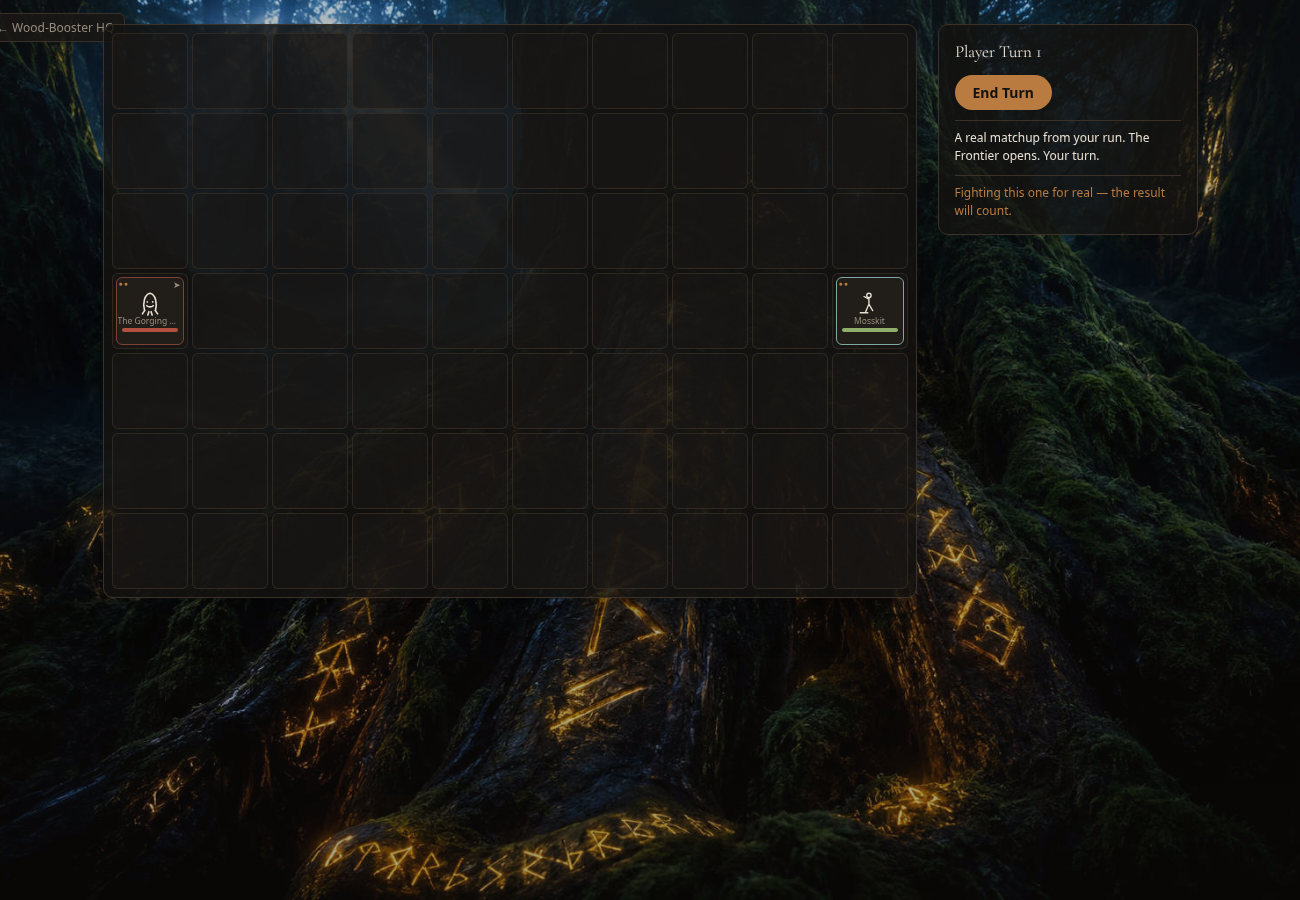
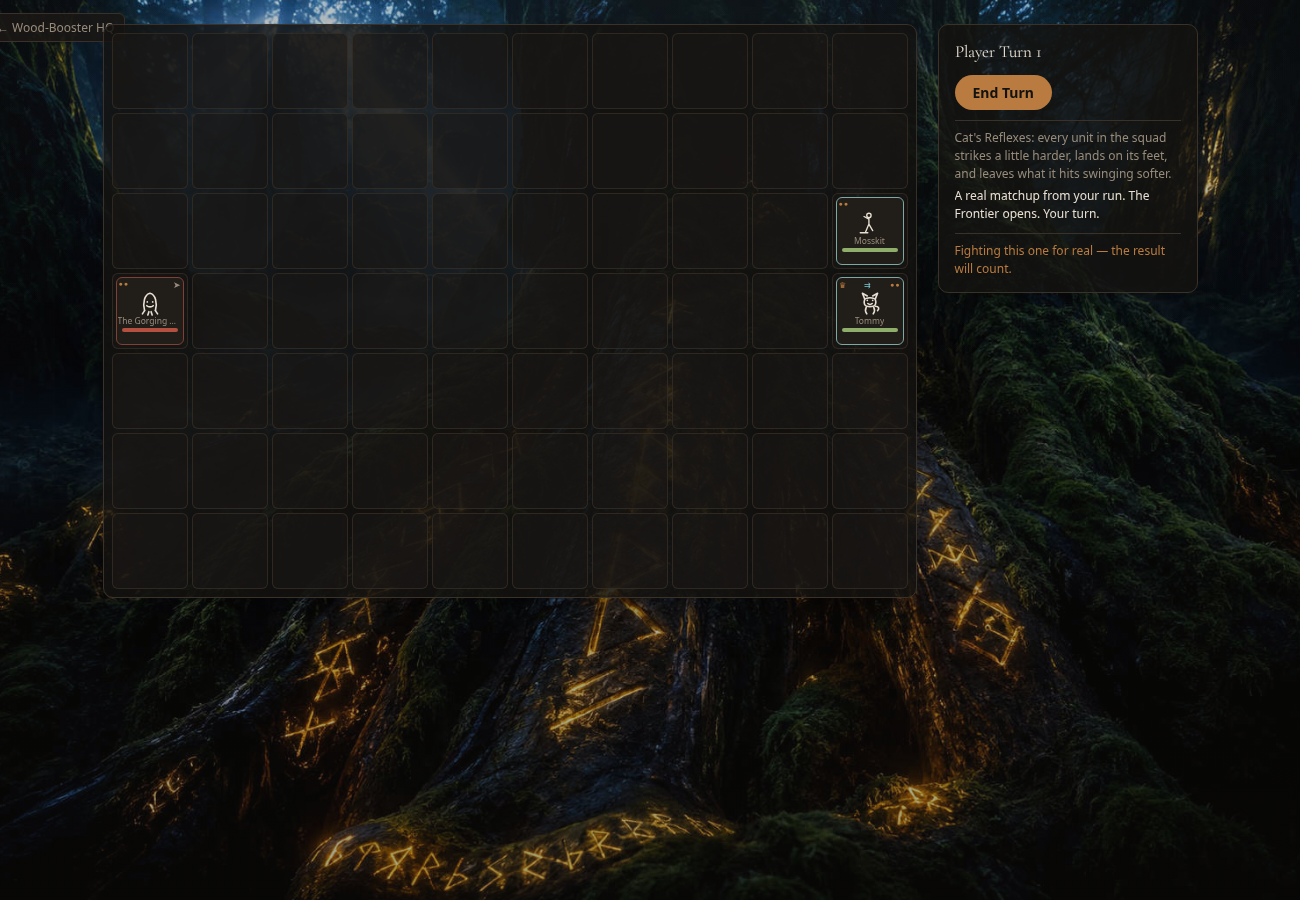
Hearthwood Frontier: the Commander joins a real fight (wiring PR #482-484 into the run)
Marc: "jatketaan" after PR #484 (Squad Passive - the Commander's basic
kit is fully complete); picked "Wire it into a real fight" over Facing
or Zone of Control - 3 rounds of real Commander work has never once
been reachable from an actual run.

createRealMatchupBattle - the real bridge used by both the standalone
/heartwood-tactics preview and the real "Fight this as Tactics" button
- has never included a Commander at all (its own stale comment: "not
modeled here at all", written before the Commander existed in this
engine). Every piece needed already existed, proven correct by 124
passing checks in the isolated prototype: deriveCommanderUnit,
applySquadPassiveToUnits, spreadRows. This round is wiring, not new
building.

- createRealMatchupBattle gains 2 optional params (characterId,
  commanderRank), defaulting to "no Commander" for byte-identical old
  behavior on any caller that omits them. When known: appends a real
  Commander unit, applies its real Squad Passive scaled by
  commanderPassiveWithRank(character, commanderRank) - the run's own
  REAL Rank-Up level, unlike the isolated prototype's own always-rank-0
  default (no shop phase there to have earned one from) - and prepends
  the Commander's own real description as the opening log line, same
  as createTacticsBattle.
- resolveRealMatchup now also returns the run's own real characterId/
  commanderRank (runState already carries both, set at startRun and
  updated by Rank-Up) - the entire missing piece.
[…]

Changed region(s): [[0.7385, 0.1244, 0.8923, 0.3111], [0.6462, 0.2178, 0.7077, 0.28], [0.6462, 0.3111, 0.6769, 0.3733]]

diff --git a/src/services/heartwood/tacticsEngine.js b/src/services/heartwood/tacticsEngine.js
@@ -26,7 +26,7 @@
 
 import { UNITS } from "../../data/heartwood/units"
 import { ENEMIES } from "../../data/heartwood/enemies"
-import { CHARACTERS } from "../../data/heartwood/characters"
+import { CHARACTERS, commanderPassiveWithRank } from "../../data/heartwood/characters"
 import { isOnBoard, samePos, kingAdjacent, reachableTiles as reachableTilesRaw } from "./targeting"
 
 // Marc: "taistelukenttä saa olla isompi" - the battlefield can be bigger.
@@ -763,25 +763,43 @@ function spreadRows(count, gridRows) {
 // enemy's own archetype mechanic (covenAura/cultRitual/charge/broodSplit/
 // leech/poison - all read straight off that unit's own real ENEMIES def)
 // resolve normally. Deliberately does NOT carry over the live game's
-// difficulty scaling, relics, items, or the Commander (no UNITS entry,
-// not modeled here at all), and formationId is null so a curated
-// formation's PACK-LEVEL synergy bonus (Swarm/Hunters' flat Strength,
-// Fortress's per-round Block, Rot's self-mend) never applies to an
-// arbitrary real matchup - the same "reuse real data, not the live
-// scaling" discipline every archetype round's curated formations already
-// follow, just without a formation-level bonus to translate.
-export function createRealMatchupBattle(squadDefIds, enemyDefIds) {
-  const playerRows = spreadRows(squadDefIds.length, GRID.rows)
+// difficulty scaling, relics, or items, and formationId is null so a
+// curated formation's PACK-LEVEL synergy bonus (Swarm/Hunters' flat
+// Strength, Fortress's per-round Block, Rot's self-mend) never applies
+// to an arbitrary real matchup - the same "reuse real data, not the
+// live scaling" discipline every archetype round's curated formations
+// already follow, just without a formation-level bonus to translate.
+//
+// Real-fight wiring round: the Commander DOES now carry over, via 2
+// new optional params (characterId/commanderRank) defaulting to "no
+// Commander" for byte-identical old behavior on any caller that omits
+// them - the exact real values (runState.characterId/commanderRank)
+// tacticsRealMatchup.js's own resolveRealMatchup now threads through
+// from the actual run, not a hardcoded default the way the isolated
+// prototype's own createTacticsBattle has to (no shop phase there to
+// have earned a real Rank-Up from).
+export function createRealMatchupBattle(squadDefIds, enemyDefIds, characterId = null, commanderRank = 0) {
+  const character = characterId ? CHARACTERS[characterId] : null
+  const playerRows = spreadRows(squadDefIds.length + (character ? 1 : 0), GRID.rows)
   const enemyRows = spreadRows(enemyDefIds.length, GRID.rows)
   const units = [
     ...squadDefIds.map((defId, i) =>
       deriveTacticsUnit(defId, "player", { row: playerRows[i], col: GRID.cols - 1 }, `player-${defId}-${i}`),
     ),
+    ...(character
+      ? [deriveCommanderUnit(characterId, { row: playerRows[squadDefIds.length], col: GRID.cols - 1 }, "player-commander")]
+      : []),
     ...enemyDefIds.map((defId, i) =>
       deriveTacticsUnit(defId, "enemy", { row: enemyRows[i], col: 0 }, `enemy-${defId}-${i}`),
     ),
   ]
-  const withBaseline = units.map((u) => ({ ...u, baseAttack: u.attack }))
+  // The real Commander's real Squad Passive, rank-scaled by the run's
+  // OWN real commanderRank (unlike createTacticsBattle's own always-
+  // rank-0 default) - applied before the baseAttack snapshot, same
+  // ordering as createTacticsBattle so the Strength grant folds into
+  // baseline rather than showing a misleading growth badge.
+  const withSquadPassive = character ? applySquadPassiveToUnits(units, commanderPassiveWithRank(character, commanderRank)) : units
+  const withBaseline = withSquadPassive.map((u) => ({ ...u, baseAttack: u.attack }))
   return {
     grid: GRID,
     // No terrain in a real matchup this round - terrain stays isolated-
@@ -790,7 +808,12 @@ export function createRealMatchupBattle(squadDefIds, enemyDefIds) {
     units: withBaseline,
     phase: "player",
     turn: 1,
-    log: ["A real matchup from your run. The Frontier opens. Your turn."],
+    // The Commander's own real, hand-authored description reused
+    // verbatim as the opening line, same as createTacticsBattle - only
+    // when a real Commander is actually present.
+    log: character
+      ? [character.description, "A real matchup from your run. The Frontier opens. Your turn."]
+      : ["A real matchup from your run. The Frontier opens. Your turn."],
     formationId: null,
   }
 }

diff --git a/src/services/heartwood/tacticsRealMatchup.js b/src/services/heartwood/tacticsRealMatchup.js
@@ -28,7 +28,7 @@ import { UNITS } from "../../data/heartwood/units"
 const PREVIEWABLE_PHASES = new Set(["formation", "battle"])
 
 // Resolves an already-in-memory runState + node into { label, squadDefIds,
-// enemyDefIds } for the tactics engine's createRealMatchupBattle/
+// enemyDefIds, characterId, commanderRank } for the tactics engine's
 // createRealMatchupBattle, or null when there's nothing resolvable (no
 // encounter id, or an empty squad/enemy side). Pure - no localStorage
 // touch at all, so HeartwoodBattle.jsx can call this directly on the
@@ -56,6 +56,12 @@ export function resolveRealMatchup(runState, node) {
     label: formation.name || ENEMIES[enemyDefIds[0]]?.name || "your run's next fight",
     squadDefIds,
     enemyDefIds,
+    // Real-fight wiring round: the run's own actual chosen Commander +
+    // Rank-Up level, threaded through to createRealMatchupBattle so it
+    // can deploy the SAME Commander (with the same real rank-scaled
+    // Squad Passive) the player actually has, not a hardcoded default.
+    characterId: runState.characterId,
+    commanderRank: runState.commanderRank || 0,
   }
 }
 

diff --git a/src/pages/HeartwoodTactics.jsx b/src/pages/HeartwoodTactics.jsx
@@ -91,13 +91,16 @@ export default function HeartwoodTactics() {
 
   // Load the real run's actual squad + actual enemy - a snapshot preview,
   // not a live connection. Never writes anything back to the real run;
-  // see tacticsRealMatchup.js for the full non-mutating guarantee.
+  // see tacticsRealMatchup.js for the full non-mutating guarantee. Also
+  // includes the real run's own Commander (characterId/commanderRank) -
+  // real-fight wiring round - so this preview stays faithful to what
+  // the real Fight button now actually deploys, not a stale subset.
   function startRealMatchup() {
     if (!realMatchup) return
     setSelectedId(null)
     setAbilityMode(null)
     setUsingReal(true)
-    setBattle(maybeDebugLowHp(createRealMatchupBattle(realMatchup.squadDefIds, realMatchup.enemyDefIds)))
+    setBattle(maybeDebugLowHp(createRealMatchupBattle(realMatchup.squadDefIds, realMatchup.enemyDefIds, realMatchup.characterId, realMatchup.commanderRank)))
   }
 
   // The one way out of real-matchup mode - back to today's exact default

diff --git a/src/pages/HeartwoodBattle.jsx b/src/pages/HeartwoodBattle.jsx
@@ -580,7 +580,7 @@ export default function HeartwoodBattle() {
       const node = current.path[current.nodeIndex]
       const matchup = resolveRealMatchup(current, node)
       if (!matchup) return current
-      let battle = createRealMatchupBattle(matchup.squadDefIds, matchup.enemyDefIds)
+      let battle = createRealMatchupBattle(matchup.squadDefIds, matchup.enemyDefIds, matchup.characterId, matchup.commanderRank)
       // The same QA-only ?debugLowHp=1 hook HeartwoodTactics.jsx's own
       // maybeDebugLowHp already uses - never a real feature, just lets a
       // verification pass reach a real win without grinding real attack
